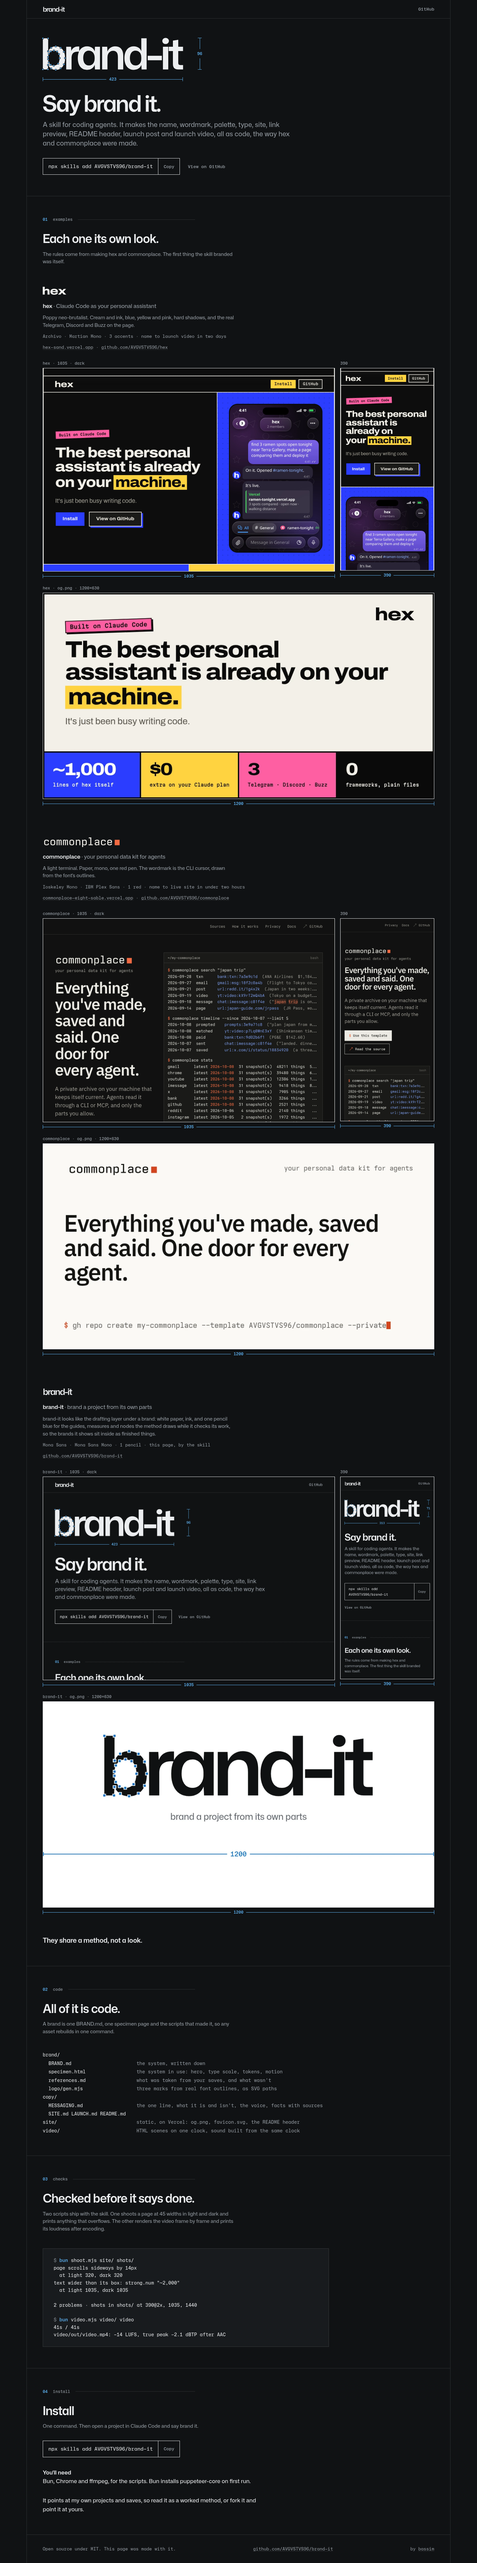
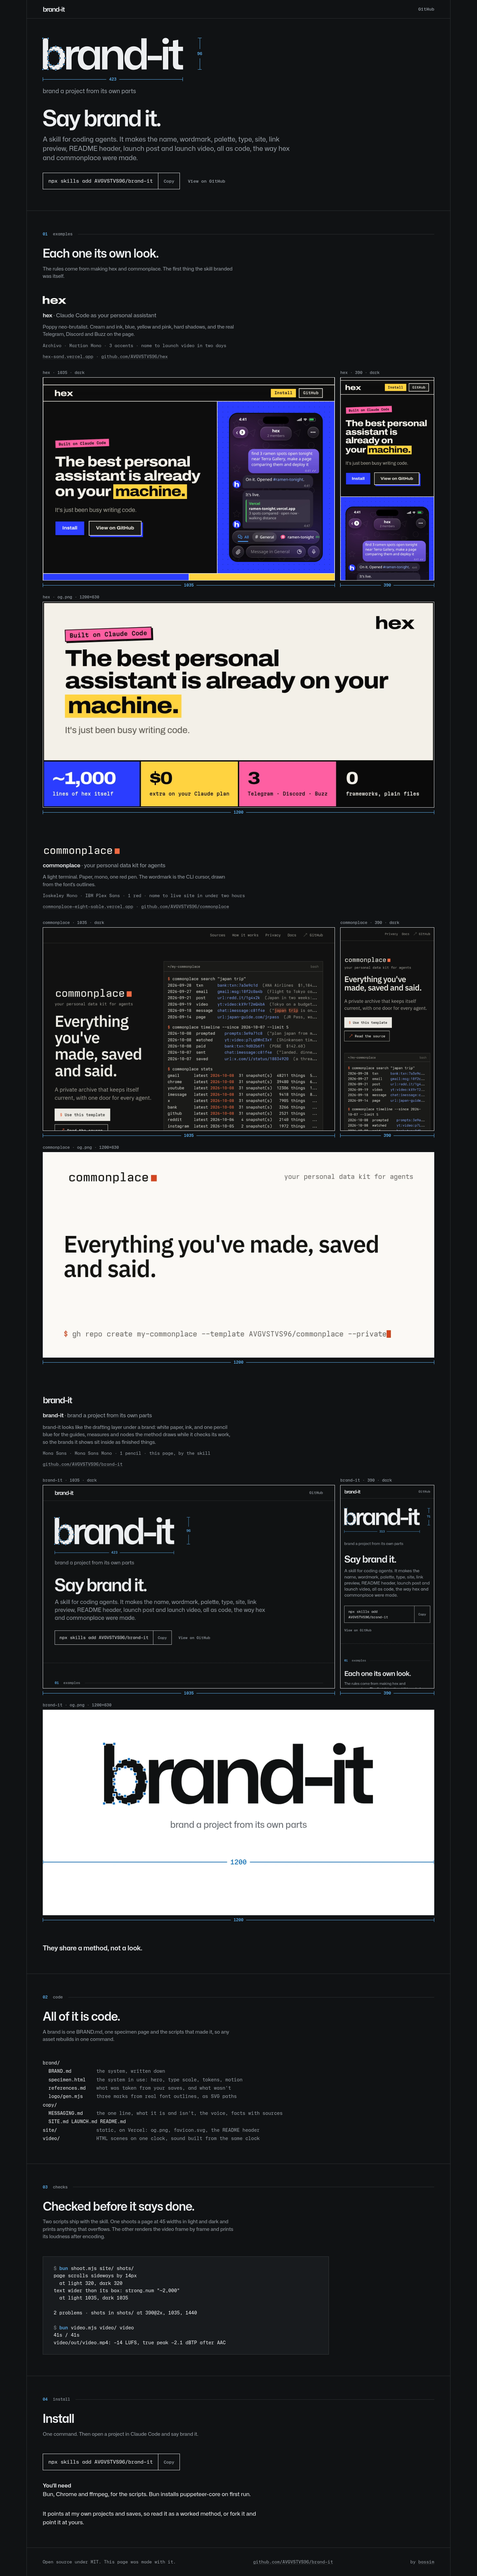
Site: the phone frame label shortens under 840px, fresh self shots with the tagline, the sweep's shots at 390, 1035 and 1440

diff --git a/site/src/style.css b/site/src/style.css
@@ -148,6 +148,10 @@ footer { padding: var(--s6) var(--gutter); border-top: 1px solid var(--hair); di
 footer p { max-width: none; }
 footer a { text-decoration-color: var(--hair); }
 
+@media (max-width: 840px) {
+  .narrow .label .site, .narrow .label .sch { display: none; }
+}
+
 @media (max-width: 640px) {
   .hero { padding-block: var(--s6) var(--s7); }
   .hero-fig { padding-right: 1.75rem; margin-bottom: var(--s6); }
@@ -162,7 +166,6 @@ footer a { text-decoration-color: var(--hair); }
   .tree .in + span { padding-left: 4ch; }
   .tree span:empty { display: none; }
   .tree .wide { margin-bottom: var(--s2); }
-  .narrow .label .site, .narrow .label .sch { display: none; }
   .links i { display: none; }
   .links a { display: block; }
   .term { padding: var(--s4); }
